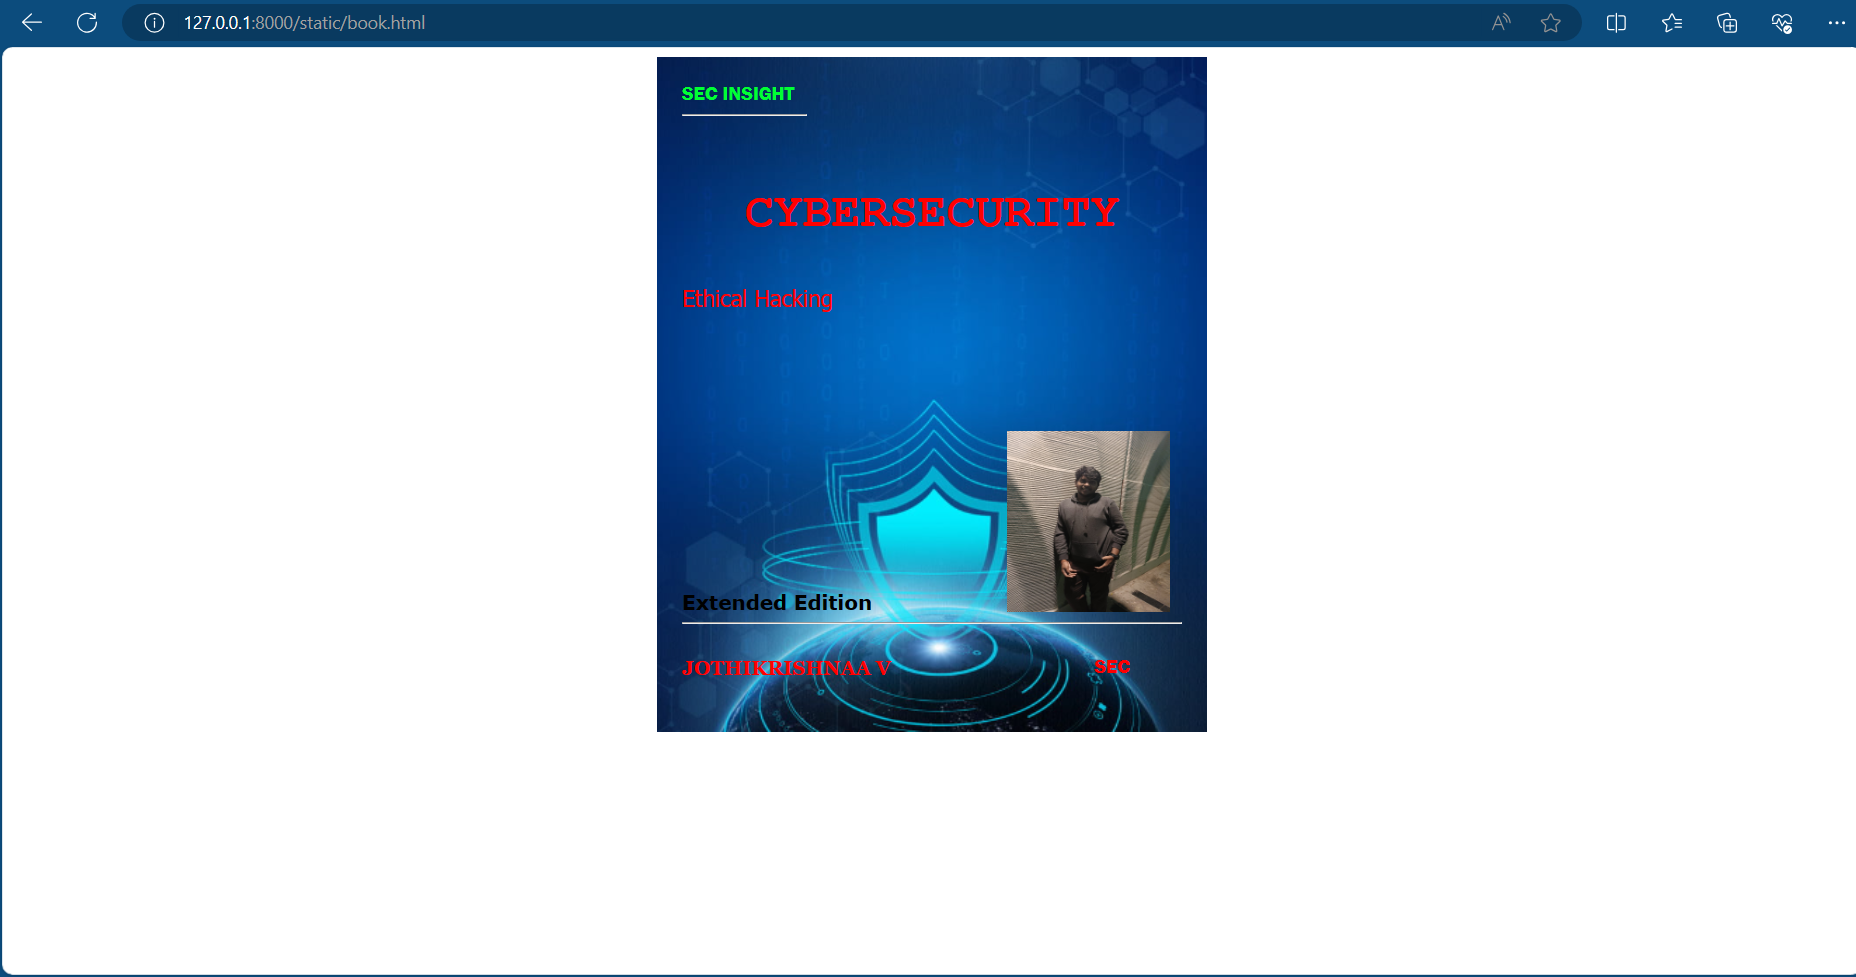
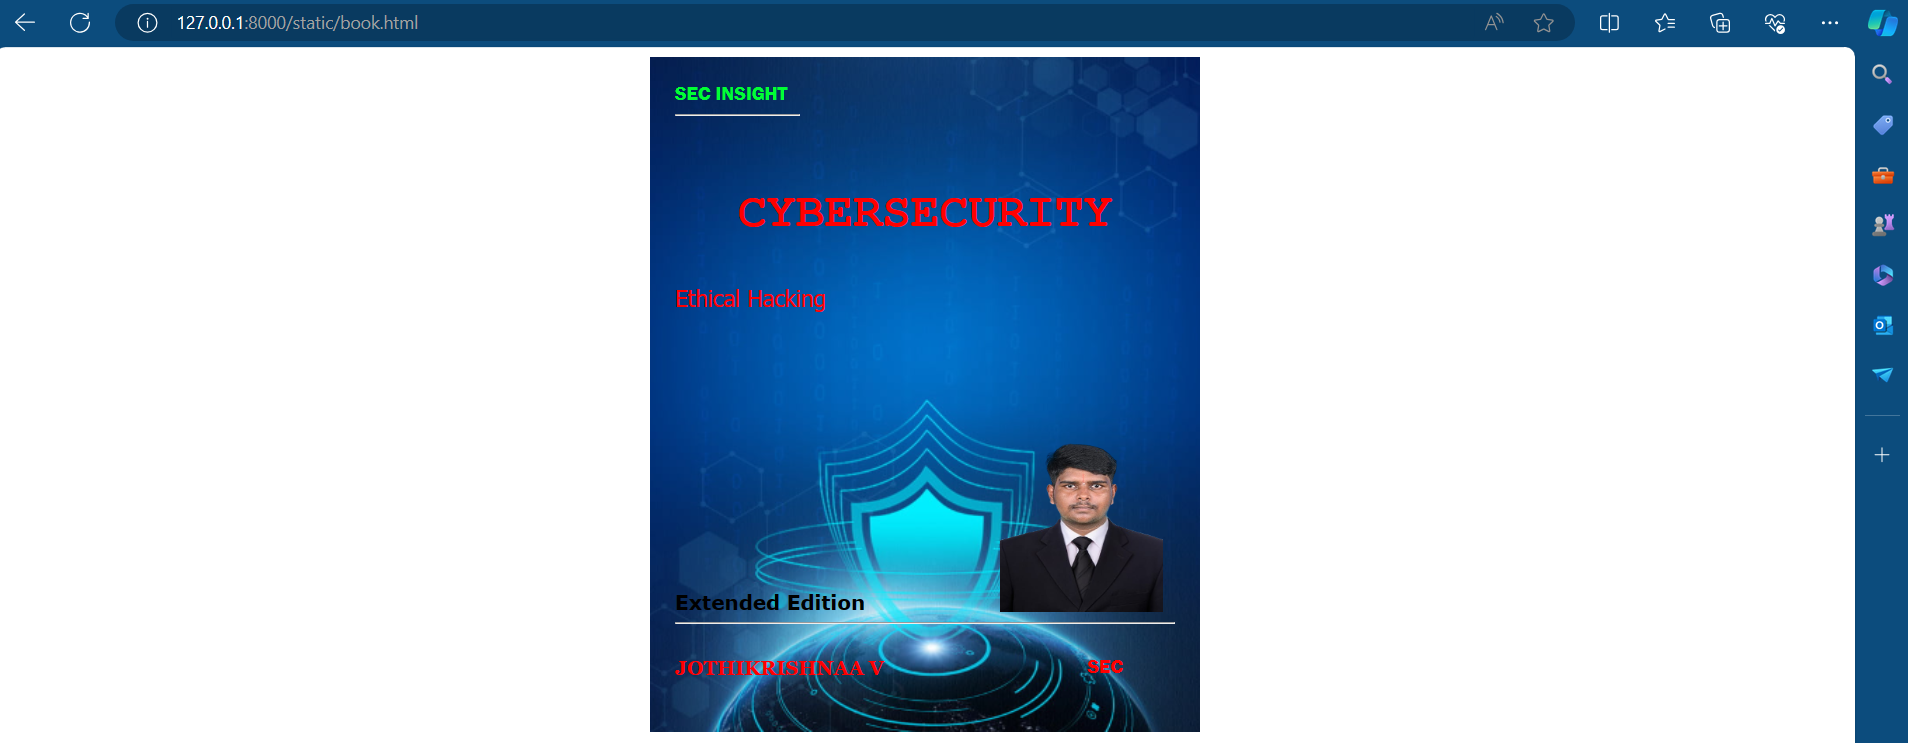
l6

Changed region(s): [[0.0, 0.0, 1.0, 1.0]]

diff --git a/jkcd/bookapp/static/book.html b/jkcd/bookapp/static/book.html
@@ -92,7 +92,7 @@
             Ethical Hacking
             </div>
             <div class="mypic">
-                <img src="PHOTO.jpg" width="130" height="145" alt="">
+                <img src="JOSH.png" width="130" height="145" alt="">
             </div>
             <div class="id">
                 <hr style="color: pink;">

diff --git a/README.md b/README.md
@@ -126,7 +126,7 @@ Publish the website in the LocalHost.
             Ethical Hacking
             </div>
             <div class="mypic">
-                <img src="PHOTO.jpg" width="130" height="145" alt="">
+                <img src="JOSH.jpg" width="130" height="145" alt="">
             </div>
             <div class="id">
                 <hr style="color: pink;">
